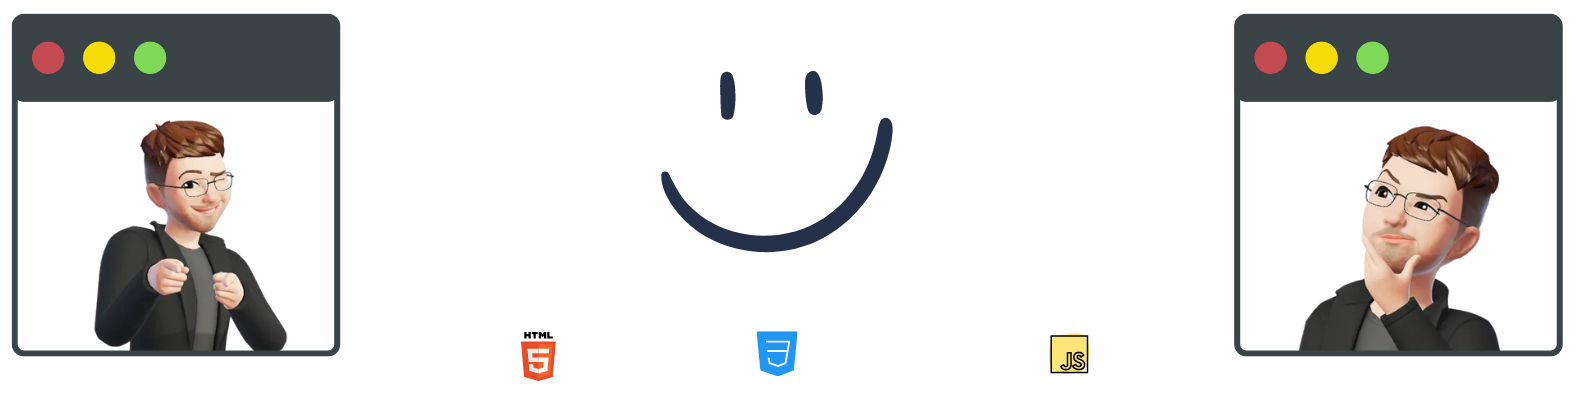
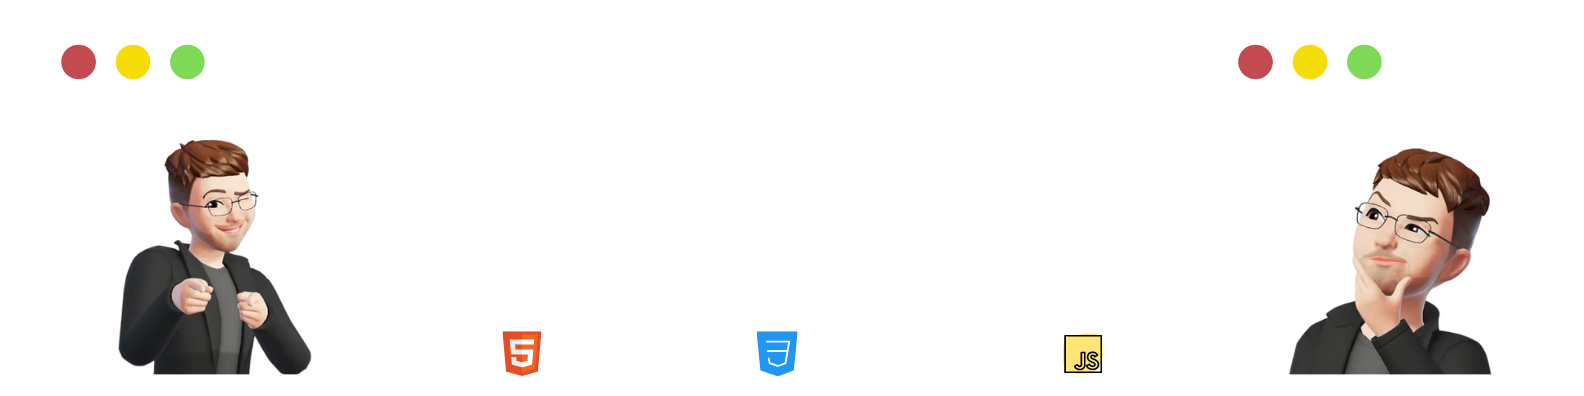
White

diff --git a/index.html b/index.html
@@ -52,10 +52,10 @@
 
         <div class="content">
             <div class="contentBx">
-                <p>Meu nome é Yuri. Sou graduado em ADS, para os íntimos, ou tecnologia em análise e desenvolvimento de sistemas :) </p>
+                <p>Meu nome é <span>Yuri</span>. Sou graduado em ADS, para os íntimos, ou tecnologia em análise e desenvolvimento de sistemas :) </p>
                 <p>Porém um eterno estudante em constante evolução e com experiência em rotinas de Tecnologia da Informação, incluindo suporte técnico, infraestrutura e desenvolvimento front-end.</p>
                 <p>Acredito na importância de garantir que as soluções implementadas não só atendam às necessidades, mas também contribuam para o crescimento e a sustentabilidade da aplicação/organização.</p>
-                <p>Possuo facilidade na utilização de ferramentas como Photoshop e Canva. Ultimamente tenho voltado meus estudos para desenvolver cada vez mais meu JavaScript. Com foco na criação de aplicações web e todas as possibilidades relacionadas ao universo Front-End.</p>
+                <p>Possuo facilidade na utilização de ferramentas como <span>Photoshop</span> e <span>Canva</span>. Ultimamente tenho voltado meus estudos para desenvolver cada vez mais meu <span>JavaScript</span>. Com foco na criação de aplicações web e todas as possibilidades relacionadas ao universo <span>Front-End</span>.</p>
             </div>
 
             <img src="./img/me.png" alt="">            

diff --git a/style.css b/style.css
@@ -62,7 +62,8 @@ header ul li a{
 }
 
 header ul li a:hover{
-    color: rgb(3, 3, 3);
+    transform: scale(1.2);
+    transition: ease 0.4s;
 }
 
 /*********************** GERAL *****************/
@@ -102,6 +103,7 @@ body{
 
 .home span{
     font-weight: 600;
+    color: #fff;;
 }
 
 .home h3{
@@ -123,8 +125,8 @@ body{
     letter-spacing: 2px;
     transition-duration: 1s;
     
-    background-color: #df3c0ad0;
-    color: #f5f8f7;
+    background-color: #fdfdfdd0;
+    color: #000000d0;
     font-family: 'TT Norms Pro';
     font-weight: 400;
     font-size: 18px;
@@ -150,7 +152,7 @@ body{
 
 .heading h2{
     text-transform: uppercase;
-    color: #243148;
+    color: #ffffff;
     font-weight: 600;
     font-size: 45px;
     text-align: center;
@@ -185,6 +187,10 @@ body{
     margin-bottom: 15px;
 }
 
+.contentBx span{
+    color: #fff;
+}
+
 .sobre-mim img{
     width: 80%;
     margin-bottom: 100px;
@@ -208,7 +214,7 @@ body{
 }
 
 .card img{
-    width: 130px;
+    width: 150px;
 }
 
 .card{
@@ -226,10 +232,12 @@ body{
 }
 
 .card:hover{
-    background: rgba(33, 102, 80, 0.3);
+    background: #fafafad0;
     -webkit-backdrop-filter: blur(3px);
     backdrop-filter: blur(3px);
     transition: ease 0.4s;
+    transform: scale(1.1);
+
 }
 
 hr{
@@ -312,6 +320,7 @@ transition: ease 0.5s;
     -ms-transform: scale(1.2);
     transform: scale(1.2);
     transition-duration: 0.2s;
+    color: #ffffffd0;
 }
 
 .contato p{
